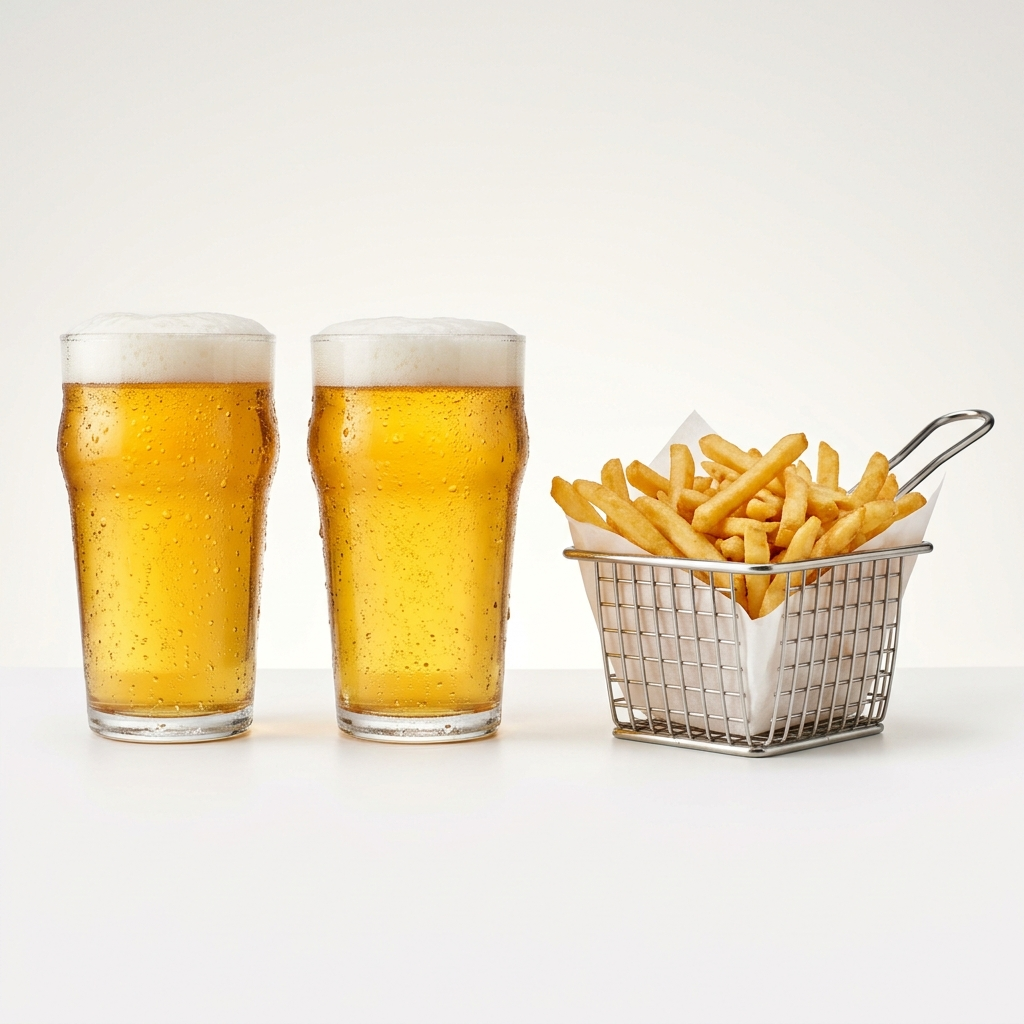
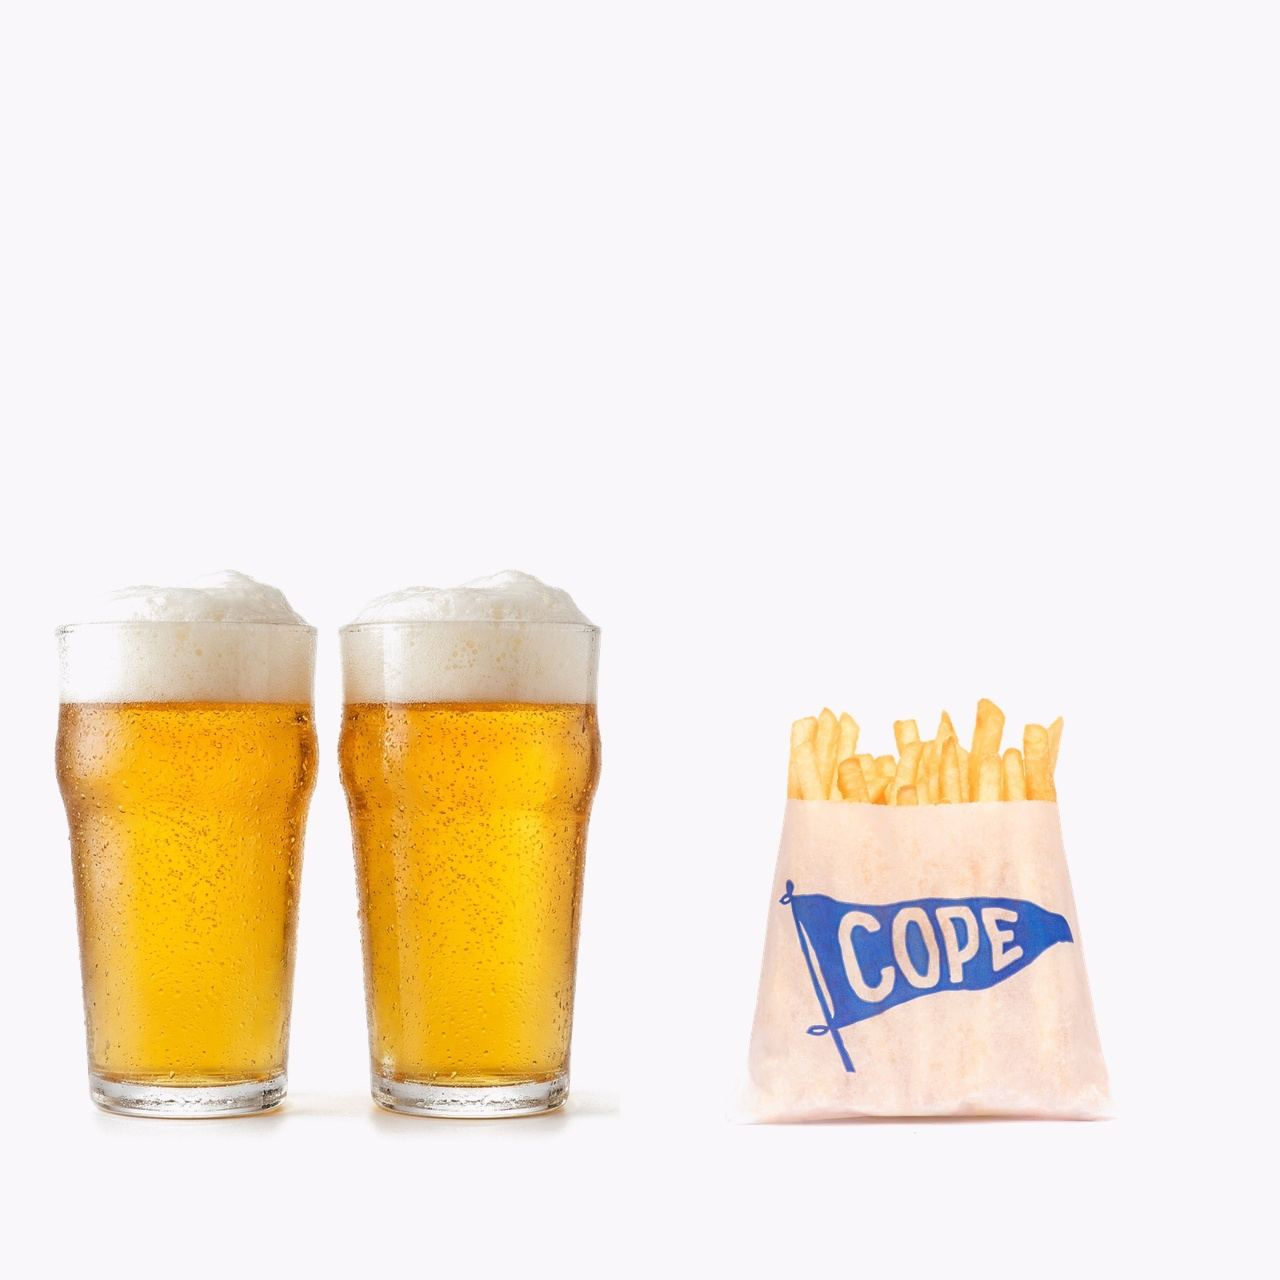
feat(promos): fotos originales Cope sin solapamiento y aclaracion Local o Take Away

diff --git a/js/products.js b/js/products.js
@@ -30,9 +30,9 @@ window.COPE_PRODUCTS = [
     id: 'promo-almuerzo-cheeseburger-papas',
     name: 'Promo Almuerzo: Cheeseburger + Papas',
     category: 'promos',
-    description: 'Cheese Burger Simple (110g de carne vacuna seleccionada) con cheddar americano fundido y mayo de la casa en pan de papa tostado con manteca + Porción de Papas Fritas Cope doradas y crujientes. Válido Lunes a Viernes de 12:00 a 18:00 hs.',
-    badge: '⚡ Promo Lu a Vi · 12 a 18 hs · $11.900',
-    scheduleBadge: 'Lu a Vi · 12 a 18 hs',
+    description: 'Cheese Burger Simple (110g de carne vacuna seleccionada) con cheddar americano fundido y mayo de la casa en pan de papa tostado con manteca + Porción de Papas Fritas Cope doradas y crujientes. 📍 Exclusivo para consumo en el local o retiro por Take Away (Lunes a Viernes de 12:00 a 18:00 hs).',
+    badge: '⚡ Promo Lu a Vi · 12 a 18 hs · Local o Take Away · $11.900',
+    scheduleBadge: 'Lu a Vi · 12 a 18 hs · Local / Take Away',
     image: 'img/promo-cheeseburger-papas.jpeg',
     price: 11900,
     isPromo: true,
@@ -40,7 +40,7 @@ window.COPE_PRODUCTS = [
       days: [1, 2, 3, 4, 5],
       startHour: 12,
       endHour: 18,
-      label: 'Lunes a Viernes de 12 a 18 hs'
+      label: 'Lunes a Viernes de 12 a 18 hs (Local o Take Away)'
     },
     canAddExtraMeat: true,
     extraMeatPrice: 4000,
@@ -55,9 +55,9 @@ window.COPE_PRODUCTS = [
     id: 'promo-after-office-cervezas-papas',
     name: 'Promo After Office: 2 Cervezas + Papas Fritas',
     category: 'promos',
-    description: '2 Cervezas Quilmes heladas (tirada/lata) bien refrescantes + Porción de Papas Fritas Cope doradas al estilo americano con sal marina para compartir. Válido Lunes a Viernes de 18:00 a 20:00 hs.',
-    badge: '🍻 After Office · Lu a Vi 18 a 20 hs · $10.000',
-    scheduleBadge: 'Lu a Vi · 18 a 20 hs',
+    description: '2 Cervezas Quilmes heladas (tirada/lata) bien refrescantes + Porción de Papas Fritas Cope doradas al estilo americano con sal marina para compartir. 📍 Exclusivo para consumo en el local o retiro por Take Away (Lunes a Viernes de 18:00 a 20:00 hs).',
+    badge: '🍻 After Office · Lu a Vi 18 a 20 hs · Local o Take Away · $10.000',
+    scheduleBadge: 'Lu a Vi · 18 a 20 hs · Local / Take Away',
     image: 'img/promo-cervezas-papas.jpeg',
     price: 10000,
     isPromo: true,
@@ -65,7 +65,7 @@ window.COPE_PRODUCTS = [
       days: [1, 2, 3, 4, 5],
       startHour: 18,
       endHour: 20,
-      label: 'Lunes a Viernes de 18 a 20 hs'
+      label: 'Lunes a Viernes de 18 a 20 hs (Local o Take Away)'
     },
     canAddExtraCheddar: true,
     extraCheddarPrice: 2000,

diff --git a/js/i18n.js b/js/i18n.js
@@ -334,25 +334,25 @@ window.COPE_I18N = (function () {
     'promo-almuerzo-cheeseburger-papas': {
       en: {
         name: 'Lunch Promo: Cheeseburger + Fries',
-        description: 'Single Cheese Burger (110g beef) with melted American cheddar on potato bun + generous portion of golden crispy Cope fries. Valid Mon to Fri 12:00 to 18:00.',
-        badge: '⚡ Lunch Deal · Mon-Fri 12-18h · $11,900'
+        description: 'Single Cheese Burger (110g beef) with melted American cheddar on potato bun + generous portion of golden crispy Cope fries. Dine-in or Take Away only (Mon to Fri 12:00 to 18:00).',
+        badge: '⚡ Lunch Deal · Mon-Fri 12-18h · Dine-in / Take Away · $11,900'
       },
       pt: {
         name: 'Promo Almoço: Cheeseburger + Batatas',
-        description: 'Cheese Burger Simples (110g) com cheddar americano derretido no pão de batata + porção de batatas fritas crocantes Cope. Válido Seg a Sex das 12h às 18h.',
-        badge: '⚡ Promo Almoço · Seg-Sex 12-18h · $11.900'
+        description: 'Cheese Burger Simples (110g) com cheddar americano derretido no pão de batata + porção de batatas fritas crocantes Cope. Exclusivo para consumo no local ou Take Away (Seg a Sex das 12h às 18h).',
+        badge: '⚡ Promo Almoço · Seg-Sex 12-18h · Local / Take Away · $11.900'
       }
     },
     'promo-after-office-cervezas-papas': {
       en: {
         name: 'After Office Promo: 2 Beers + Fries',
-        description: '2 Chilled Quilmes beers + generous portion of golden crispy Cope fries for sharing. Valid Mon to Fri 18:00 to 20:00.',
-        badge: '🍻 After Office · Mon-Fri 18-20h · $10,000'
+        description: '2 Chilled Quilmes beers + generous portion of golden crispy Cope fries for sharing. Dine-in or Take Away only (Mon to Fri 18:00 to 20:00).',
+        badge: '🍻 After Office · Mon-Fri 18-20h · Dine-in / Take Away · $10,000'
       },
       pt: {
         name: 'Promo After Office: 2 Cervejas + Batatas',
-        description: '2 Cervejas Quilmes geladas + porção de batatas fritas crocantes Cope para compartilhar. Válido Seg a Sex das 18h às 20h.',
-        badge: '🍻 After Office · Seg-Sex 18-20h · $10.000'
+        description: '2 Cervejas Quilmes geladas + porção de batatas fritas crocantes Cope para compartilhar. Exclusivo para consumo no local ou Take Away (Seg a Sex das 18h às 20h).',
+        badge: '🍻 After Office · Seg-Sex 18-20h · Local / Take Away · $10.000'
       }
     },
     'simple-cheese-burger': {

diff --git a/index.html b/index.html
@@ -123,10 +123,10 @@
         <div class="promo-spotlight-content">
           <div class="promo-badge-pill">
             <span class="promo-live-dot"></span>
-            <span>PROMO ALMUERZO · LU A VI 12 A 18 HS</span>
+            <span>⚡ PROMO ALMUERZO · LU A VI 12 A 18 HS</span>
           </div>
           <h2 class="promo-spotlight-title">Cheeseburger + Papas Fritas</h2>
-          <p class="promo-spotlight-desc">Burger simple 110g con cheddar americano fundido + Porción de Papas Fritas crujientes</p>
+          <p class="promo-spotlight-desc">Burger simple 110g con cheddar americano + Papas Fritas Cope. <strong>Exclusivo para consumo en el local o Take Away.</strong></p>
           <div class="promo-spotlight-footer">
             <div class="promo-price-block">
               <span class="promo-price-current">$11.900</span>
@@ -148,10 +148,10 @@
         <div class="promo-spotlight-content">
           <div class="promo-badge-pill after-office">
             <span class="promo-live-dot beer"></span>
-            <span>AFTER OFFICE · LU A VI 18 A 20 HS</span>
+            <span>🍻 AFTER OFFICE · LU A VI 18 A 20 HS</span>
           </div>
           <h2 class="promo-spotlight-title">2 Cervezas + Papas Fritas</h2>
-          <p class="promo-spotlight-desc">2 Cervezas Quilmes heladas (tirada/lata) + Porción de Papas Fritas Cope para compartir</p>
+          <p class="promo-spotlight-desc">2 Cervezas Quilmes heladas + Papas Fritas Cope para compartir. <strong>Exclusivo para consumo en el local o Take Away.</strong></p>
           <div class="promo-spotlight-footer">
             <div class="promo-price-block">
               <span class="promo-price-current">$10.000</span>
